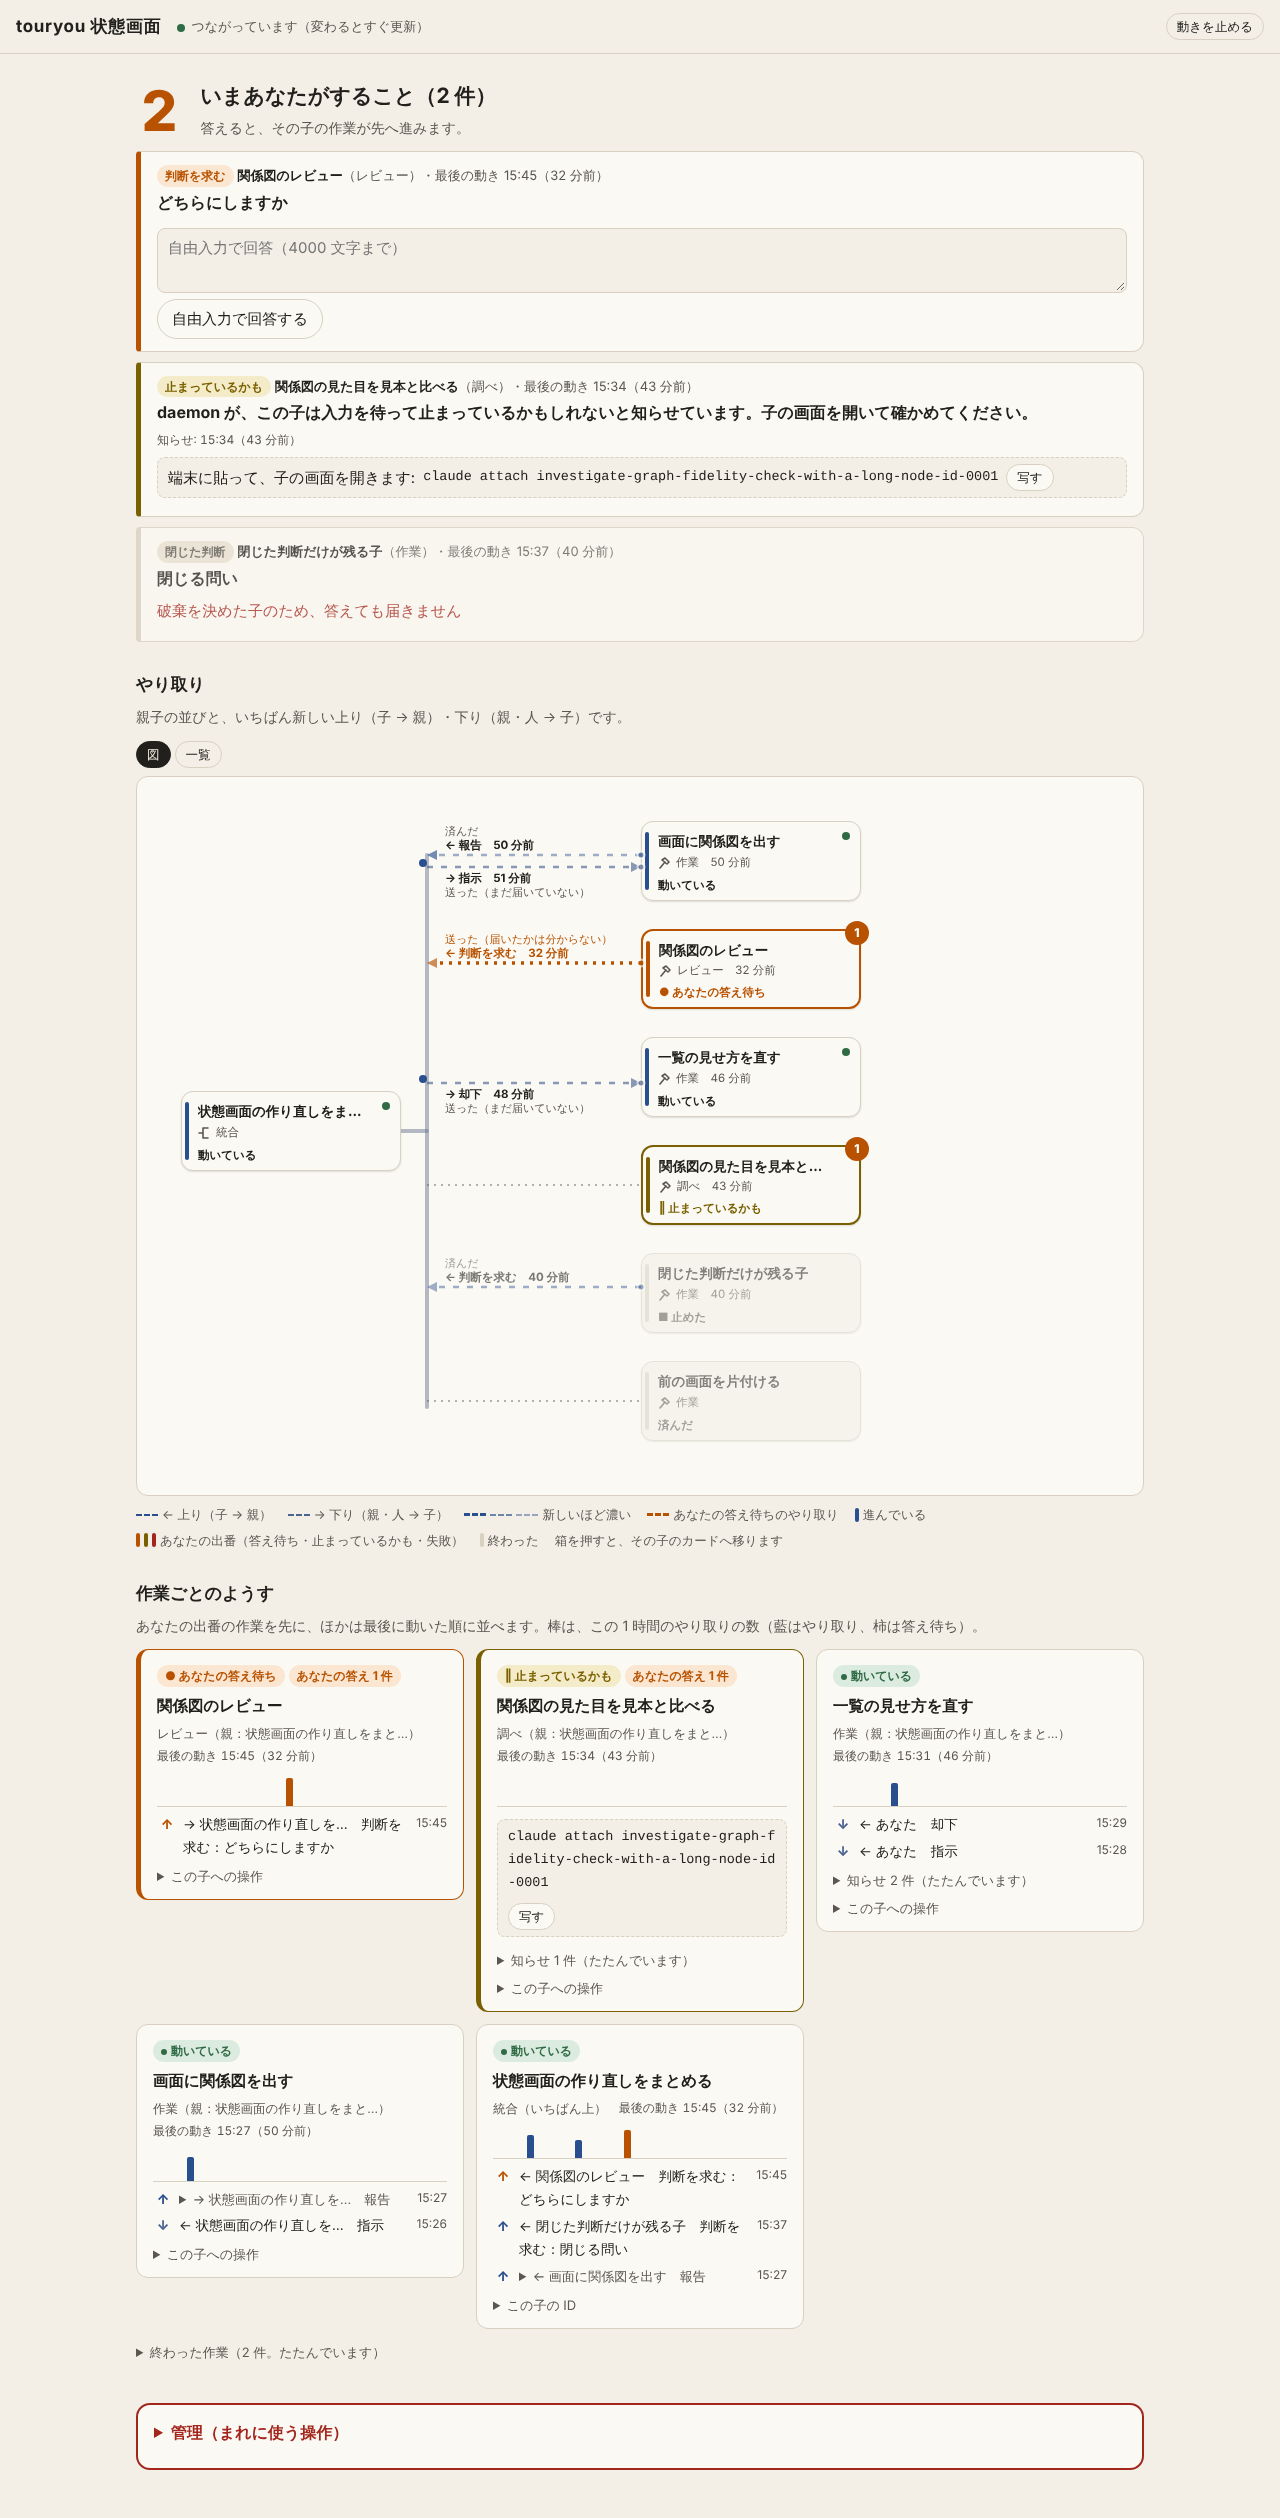
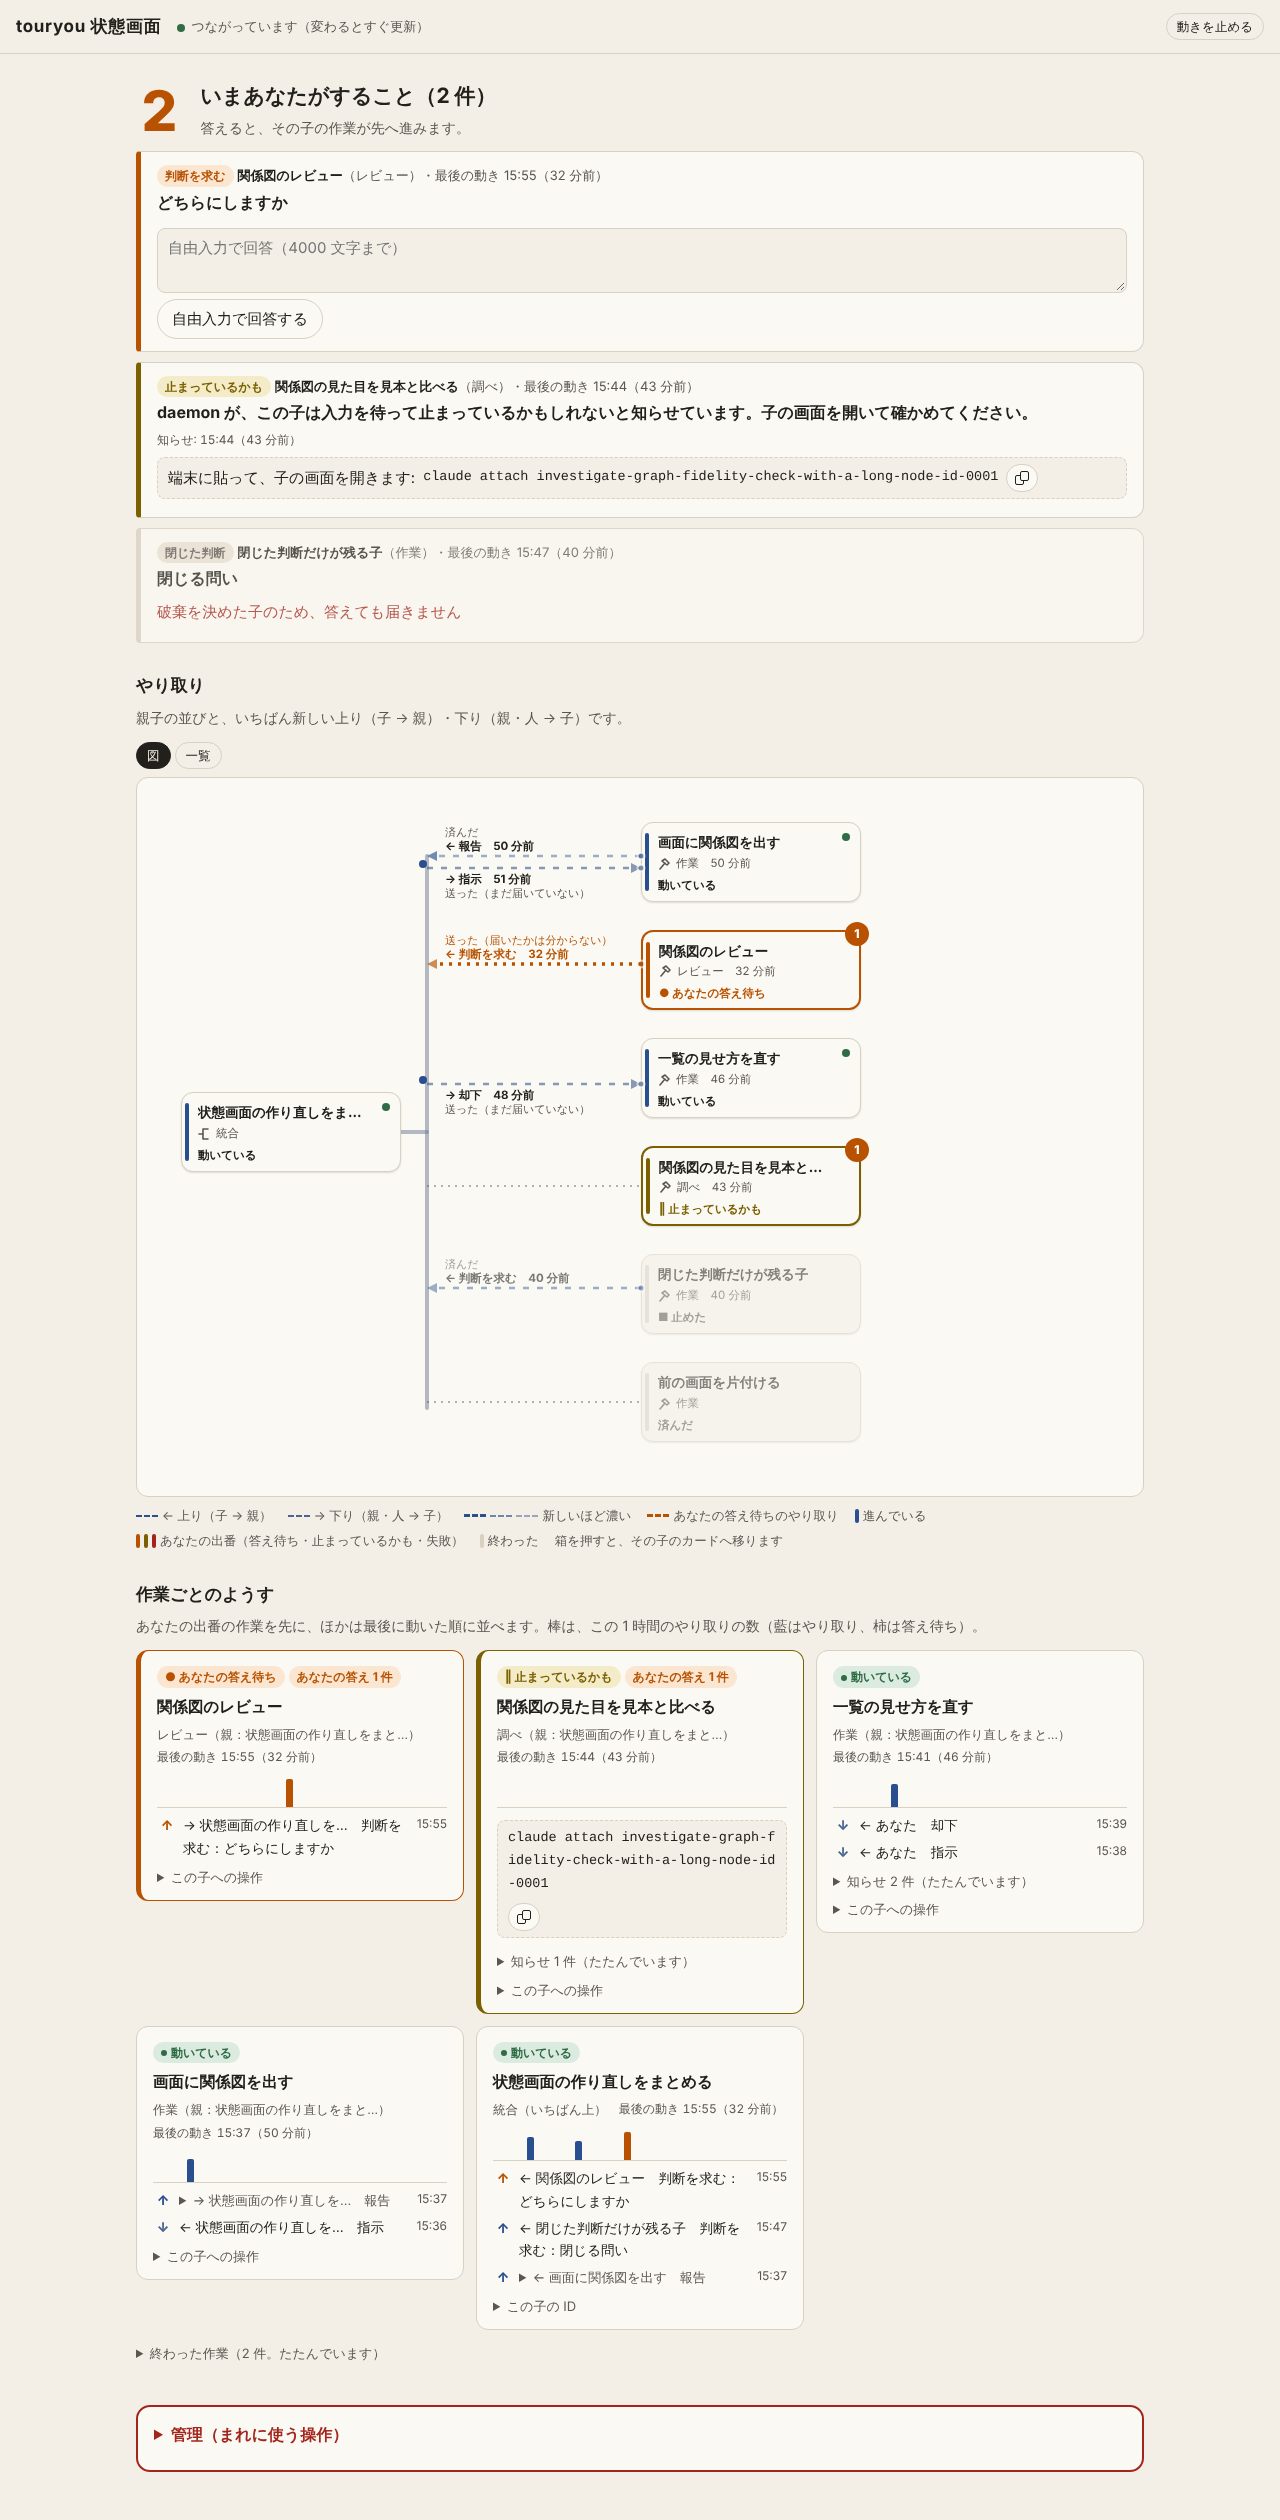
「写す」ボタンを、クリップボードのアイコンにする
四角が 2 つずれて重なった形を CSS で描く（画像・SVG・innerHTML は使わない）。名前は aria-label・title の「写す」。
押すと ✓ になり、#live（aria-live）にも「写しました」と伝え、2.5 秒で戻る。

Claude-Session: https://claude.ai/code/session_015Hz3sR3jKxUMdCMgA3DnFh

diff --git a/packages/daemon/src/api/ui-assets.ts b/packages/daemon/src/api/ui-assets.ts
@@ -25,7 +25,7 @@ export const UI_HTML = `<!doctype html>
 <link rel="stylesheet" href="/ui/app.css">
 </head>
 <body>
-<header class="top"><h1>touryou 状態画面</h1><span id="status" class="status">未接続</span><span class="tools"><button id="still" class="quiet sm" type="button">動きを止める</button></span></header>
+<p id="live" class="sr" aria-live="polite"></p><header class="top"><h1>touryou 状態画面</h1><span id="status" class="status">未接続</span><span class="tools"><button id="still" class="quiet sm" type="button">動きを止める</button></span></header>
 <main>
 <section id="auth" hidden>
 <h2>人間のトークン</h2>
@@ -74,6 +74,16 @@ button.quiet{background:transparent}
 button.sm{font-size:12.5px;padding:2px 10px}
 button.danger{border-color:var(--shu);color:var(--shu);background:transparent}
 button.done{background:var(--matsu);border-color:var(--matsu);color:var(--on-strong)}
+.sr{position:absolute;width:1px;height:1px;overflow:hidden;clip:rect(0 0 0 0);white-space:nowrap;margin:-1px;padding:0;border:0}
+button.copy{display:inline-flex;align-items:center;justify-content:center;min-width:32px;min-height:28px;padding:4px 8px}
+.copy-ico{position:relative;display:inline-block;width:14px;height:14px}
+.copy-ico::before,.copy-ico::after{content:"";position:absolute;width:9px;height:10px;border:1.6px solid currentColor;border-radius:2px;box-sizing:border-box}
+.copy-ico::before{left:0;top:4px}
+.copy-ico::after{left:5px;top:0;background:var(--sheet)}
+button.copy:hover .copy-ico::after{background:var(--sheet)}
+button.copy.done .copy-ico::after{display:none}
+button.copy.done .copy-ico::before{content:"✓";border:0;width:14px;height:14px;left:0;top:-2px;font-size:14px;line-height:14px;font-weight:800;text-align:center}
+button.copy.failed{border-color:var(--shu);color:var(--shu)}
 code{font-family:"SFMono-Regular",Menlo,Consolas,monospace;font-size:13.5px;word-break:break-all}
 .now{margin:24px 0 8px;display:grid;grid-template-columns:auto 1fr;gap:2px 18px;align-items:end}
 .now .count{grid-row:span 2;font-size:56px;line-height:1;font-weight:800;color:var(--kaki);min-width:1.2ch;text-align:center;font-variant-numeric:tabular-nums}
@@ -633,10 +643,27 @@ export const UI_JS = `'use strict';
     return card;
   }
   // 写すボタン。写せないとき（クリップボードが使えない）は、そう言う（文字は欄にあるので、手で選べる）
+  // 写すボタン（クリップボードのアイコン。四角が 2 つずれて重なった形を CSS で描く。文字は出さず、名前は aria-label と title）。
+  // 押したら、済みの形（✓）にして、読み上げにも伝える（#live。aria-live）。数秒で元に戻す
+  var COPY_BACK_MS = 2500;
+  function announce(msg) {
+    var live = document.getElementById('live');
+    live.textContent = '';
+    live.textContent = msg;
+  }
   function copyButton(text) {
-    var b = el('button', 'sm', '写す');
+    var b = el('button', 'sm copy');
+    b.appendChild(el('span', 'copy-ico'));
+    var name = function (label, cls) { b.ariaLabel = label; b.title = label; b.className = cls; };
+    name('写す', 'sm copy');
+    var back = null;
     b.addEventListener('click', function () {
-      var said = function (ok) { b.textContent = ok ? '写しました' : '写せません（文字を選んでコピーしてください）'; b.className = ok ? 'sm done' : 'sm'; };
+      var said = function (ok) {
+        name(ok ? '写しました' : '写せません（文字を選んでコピーしてください）', ok ? 'sm copy done' : 'sm copy failed');
+        announce(ok ? '写しました' : '写せません。文字を選んでコピーしてください');
+        if (back !== null) window.clearTimeout(back);
+        back = window.setTimeout(function () { back = null; name('写す', 'sm copy'); }, COPY_BACK_MS);
+      };
       if (navigator.clipboard && navigator.clipboard.writeText) navigator.clipboard.writeText(text).then(function () { said(true); }, function () { said(false); });
       else said(false);
     });

diff --git a/packages/daemon/test/ui/playwright.ts b/packages/daemon/test/ui/playwright.ts
@@ -27,6 +27,7 @@ export interface Page {
   on(event: "pageerror", f: (e: Error) => void): void;
   on(event: "request", f: (r: { url(): string }) => void): void;
   clock: { install(): Promise<void>; runFor(ms: number): Promise<void> };
+  context(): { grantPermissions(p: string[], o?: { origin: string }): Promise<void> };
   addInitScript(f: () => void): Promise<void>;
   goto(url: string): Promise<unknown>;
   click(selector: string): Promise<void>;

diff --git a/CHANGELOG.md b/CHANGELOG.md
@@ -4,6 +4,8 @@
 
 ### 利用者に見える変更
 
+- **状態画面の「写す」ボタンを、クリップボードのアイコンにした**: 文字の代わりに、四角が 2 つ重なった形を CSS で描く。名前（`aria-label`・`title`）は「写す」。押すと ✓ になって読み上げにも「写しました」と伝え、数秒で戻る。
+
 - **「作業ごとのようす」のカードの残りを、見本にそろえた**: 「役割（親：題）」と「最後の動き」を 1 つの行に並べ（足りなければ折り返す）、親の題は 12 字、やり取りの相手の題は 10 字で切るようにした。棒を見本くらいの高さにした。やり取りに短い文を出す（報告・判断の問い・範囲の頼みの理由だけ。18 字までは 1 行に続け、長ければたたむ）。表示モデルのやり取りに、短い本文 `text`（上限 200 字）を足した（画面のほかの所で既に見える文だけ。追加指示・判断の答えの文は載せない）。
 
 - **状態画面の「作業ごとのようす」のカードを、見本の形にした**: 頭の札を、状態の札 1 つ（関係図の箱と同じ言葉と色）と「あなたの答え N 件」だけにした（「あなたの出番」と「動いている」の 2 つ並びをやめた）。答えのあるカードは縁を柿色にした。題・役割と親の題・最後の動きの下に、この 1 時間のやり取りの棒（5 分ずつ 12 区切り。藍はやり取り、柿は答え待ち）と、最近のやり取り 3 件（↑・↓ と相手の題・種類・時刻）を出す。受信箱の項目は「知らせ N 件（たたんでいます）」に、ID と「写す」は「この子への操作」の中にたたんだ。止まっているかもしれない CLI の子は、カードにも `claude attach` と「写す」を出す。

diff --git a/docs/manual-verification-checklist.md b/docs/manual-verification-checklist.md
@@ -268,8 +268,9 @@
   6. 「やり取り」の一覧で、木の字下げと、最後の上り・下りの段（送った・届いた・済んだ）が出ることを見る。「詳しく」で、その子のカードへ動いて光ることを見る。
   7. 子を受け入れる（終わった作業にする）→ そのカードが「終わった作業（N 件。たたんでいます）」の中へ移ることを見る。
   8. 「管理（まれに使う操作）」が、たたんだ形で最後にあり、開くと最終削除・保留・保管が出ることを見る。
-  9. 明るい表示と暗い表示の両方で、文字と色が読めることを見る。macOS の「視差効果を減らす」を入れる（または画面の「動きを止める」）→ 動きが止まり、色・印・文字で読めることを見る。
-- **期待する結果**: 1〜9 のとおり。
+  9. 「写す」のボタンが、クリップボードのアイコン（四角が 2 つ重なった形）で出て、指を置くと「写す」と出ること、押すと ✓ になって数秒で戻ること、写した文を端末に貼れることを見る（明るい表示と暗い表示の両方で、アイコンが見えること）。
+  10. 明るい表示と暗い表示の両方で、文字と色が読めることを見る。macOS の「視差効果を減らす」を入れる（または画面の「動きを止める」）→ 動きが止まり、色・印・文字で読めることを見る。
+- **期待する結果**: 1〜10 のとおり。
 - **結果の返し方**: 各手順の可・不可と、読みにくかった所（あれば、どの欄か）だけを返す。題・ID・トークンの値は、写さない。
 
 ## G. 関係図の束 `/ui/graph.js`（Issue #89）
